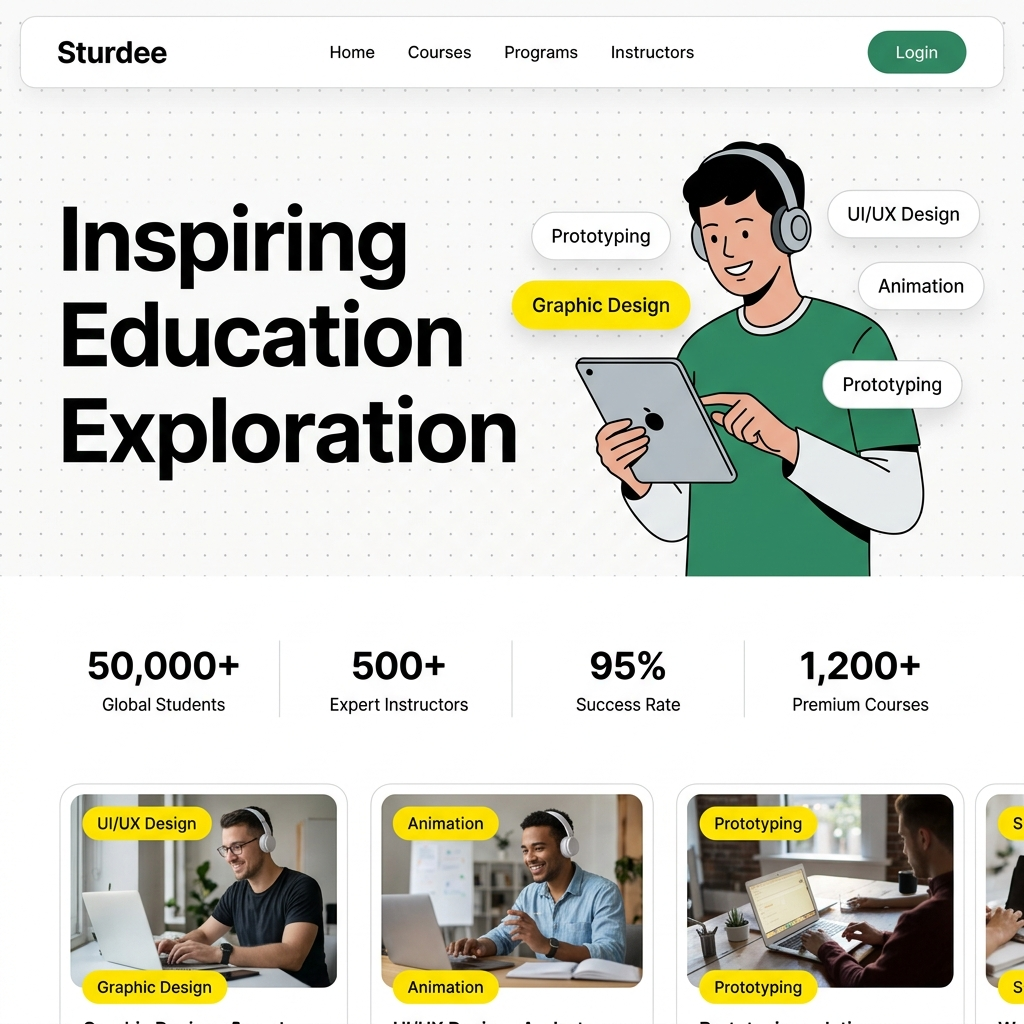
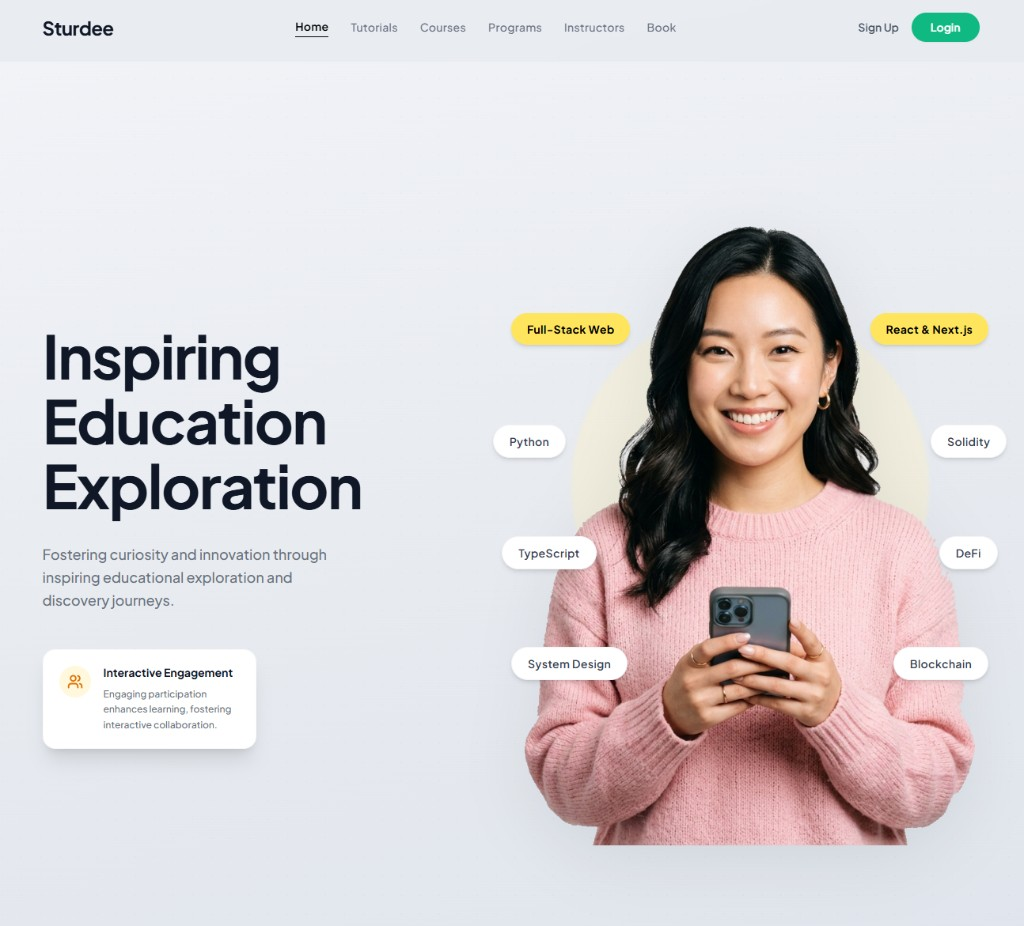
added more projects

diff --git a/lib/projectData.js b/lib/projectData.js
@@ -442,13 +442,13 @@ export const ALL_PROJECTS = [
     id: 6,
     title: 'Sturdee Education Platform',
     description:
-      'Built a premium education platform with structured course catalogs, learning paths, and instructor profiles. Features include program browsing, alumni network showcasing, and a clean editorial design with animated interactions.',
-    tags: ['Next.js', 'React', 'Tailwind CSS', 'Lucide Icons'],
+      'Built a full-stack EdTech platform at sturdee.online with user auth, an admin dashboard, session booking, and an integrated tutorial site — courses, programs, learning paths, and instructor profiles in a premium editorial UI.',
+    tags: ['Next.js', 'React', 'Auth', 'Admin Dashboard', 'Booking'],
     image: '/images/sturdee.png',
     link: 'https://sturdee.online',
     detailPage: '/sturdee',
     tagline:
-      'A premium education platform designed to inspire serious learners and justify high-ticket course pricing.',
+      'A premium education platform with auth, admin controls, booking, and a built-in tutorial experience — live at sturdee.online.',
     heroImage: '/images/sturdee.png',
     images: ['/images/sturdee.png', '/images/sturdee.png'],
     overview: {
@@ -458,74 +458,74 @@ export const ALL_PROJECTS = [
       status: 'Live',
     },
     challenge: {
-      heading: 'Cheap Templates Were Killing the Brand',
+      heading: 'No Unified Platform for Learning, Booking, and Operations',
       summary:
-        "The client was offering premium-priced courses but using a generic template that looked like every other online course site. Prospective students weren't converting because the platform didn't communicate quality, structure, or credibility.",
+        'The client needed more than a marketing site — they needed a live education product where students could sign up, browse tutorials and courses, book sessions with instructors, and enrol in structured programs, while staff managed everything from a single admin dashboard.',
       points: [
-        'Generic template design undermined the premium pricing and brand positioning',
-        'No clear content hierarchy — courses, programs, and instructors were all muddled together',
-        "Instructor profiles and alumni credibility weren't showcased effectively",
-        'Mobile experience was broken on the previous build, costing mobile conversions',
+        'No authentication — students could not create accounts, log in, or track progress',
+        'Tutorials, courses, and programs lived in separate tools with no unified experience',
+        'Session booking was manual — no self-serve scheduling for students or instructors',
+        'No admin dashboard to manage content, users, bookings, and enrolments without code',
       ],
     },
     solution: {
-      heading: 'Editorial-Grade Platform Built from Scratch',
+      heading: 'Full-Stack EdTech Platform With Auth, Admin, Booking & Tutorials',
       summary:
-        'I built a fully custom Next.js platform with an editorial design approach — every section crafted to guide prospective students through a deliberate journey from discovery to enrolment.',
+        'I built sturdee.online end-to-end on Next.js — a public-facing tutorial and course site with Sign Up / Login auth, a Book flow for scheduling sessions, structured learning paths across Web Development, Programming, and Blockchain, and a secure admin dashboard for managing the entire platform.',
       features: [
         {
-          title: 'Animated Hero Experience',
+          title: 'Authentication System',
           description:
-            'Hero section with floating course topic pills (Graphic Design, UI/UX, Animation, Prototyping) that establish breadth and quality at a glance.',
-          icon: 'star',
+            'Full Sign Up and Login flows so students create accounts, access enrolled content, and return to their dashboard — secured with role-based access for students vs. admin users.',
+          icon: 'shield',
         },
         {
-          title: 'Structured Course Catalog',
+          title: 'Admin Dashboard',
           description:
-            'Course cards with instructor attribution, star ratings, duration, student counts, and pricing — designed to drive enrolment clicks.',
-          icon: 'book',
+            'Custom admin panel to manage courses, tutorials, programs, instructors, student accounts, and platform content — no developer needed for day-to-day operations.',
+          icon: 'settings',
         },
         {
-          title: 'Learning Path Architecture',
+          title: 'Session Booking System',
           description:
-            'Multi-month structured programs (Business Mastery, Leadership Excellence, Innovation & Strategy) showing clear progression from foundational to advanced.',
+            'Integrated Book flow lets students schedule sessions with instructors directly from the site — replacing manual email coordination with a self-serve booking experience.',
           icon: 'bolt',
         },
         {
-          title: 'World-Class Faculty Section',
+          title: 'Integrated Tutorial Site',
           description:
-            'Instructor profile cards with university affiliations (Harvard, MIT Sloan, Stanford GSB) that build instant credibility with prospective students.',
-          icon: 'users',
+            'Dedicated Tutorials section alongside Courses and Programs — students browse bite-sized lessons and deep-dive tracks (Full-Stack Web, Python, TypeScript, System Design, Solidity, DeFi, Blockchain) in one cohesive product.',
+          icon: 'book',
         },
         {
-          title: 'Alumni Network Showcase',
+          title: 'Structured Learning Paths',
           description:
-            'Section highlighting graduate placements at Google, McKinsey, Goldman Sachs, and the UN — social proof that commands premium pricing.',
-          icon: 'chart',
-        },
-        {
-          title: 'Fully Responsive',
-          description:
-            'Pixel-perfect on all screen sizes — desktop, tablet, and mobile — with smooth transitions and micro-animations throughout.',
+            'Multi-month curated journeys — Full-Stack Web Development (18 courses), Professional Programming (22 courses), Blockchain & Cryptocurrency (16 courses) — each with clear progression from fundamentals to mastery.',
           icon: 'layout',
+        },
+        {
+          title: 'Premium Editorial Frontend',
+          description:
+            'Animated hero with floating topic pills, featured course cards with ratings and pricing, world-class faculty profiles, alumni network showcase, and fully responsive design across all devices.',
+          icon: 'star',
         },
       ],
     },
     impact: {
-      heading: 'A Platform That Justifies Premium Pricing',
+      heading: 'One Platform for Learning, Booking, and Operations',
       metrics: [
-        { value: '↑', label: 'Conversion rate vs. old template' },
-        { value: '100%', label: 'Mobile-responsive across all pages' },
-        { value: '4wks', label: 'Design to live platform' },
-        { value: '∞', label: 'Courses & programs scalable' },
+        { value: '1', label: 'Unified tutorial + course site' },
+        { value: '3', label: 'Structured learning paths' },
+        { value: '100%', label: 'Admin-managed content' },
+        { value: 'Live', label: 'At sturdee.online' },
       ],
       points: [
-        'Live at sturdee.online with a first impression that matches premium pricing',
-        'Clear course and program hierarchy guides students naturally to enrolment',
-        'Faculty section with top-tier university affiliations drives instant credibility',
-        'Alumni network at world-class companies provides powerful social proof',
-        'Animated hero creates a memorable, high-quality first impression',
-        'Mobile experience is flawless — no conversions lost to broken layouts',
+        'Live at sturdee.online — auth, booking, tutorials, and courses in one product',
+        'Students sign up, log in, and book sessions without leaving the platform',
+        'Admin dashboard gives staff full control over content, users, and bookings',
+        'Tutorial site integrated alongside courses and programs — not a bolt-on',
+        'Featured tracks in Web Dev, Python, and Blockchain with faculty attribution',
+        'Premium editorial UI justifies high-ticket course pricing and drives enrolment',
       ],
     },
   },
@@ -712,6 +712,110 @@ export const ALL_PROJECTS = [
         'Admin email notifications keep the team in the loop on every generation',
         'Explicit node references in expressions prevent data loss across the chain',
         'Architecture supports Slack publishing, scheduling, and multi-platform expansion',
+      ],
+    },
+  },
+
+  {
+    id: 9,
+    title: 'Inema Construction',
+    description:
+      'Built a full-stack corporate site for PT Inema Konstruksi with user auth, an admin dashboard, and a project booking/inquiry system — plus editorial dark-mode design, landmark portfolio, and service capability showcase.',
+    tags: ['Next.js', 'React', 'Auth', 'Admin Dashboard', 'Booking'],
+    image: '/images/inema.png',
+    link: 'https://inema.site',
+    detailPage: '/inema',
+    tagline:
+      'A world-class construction brand site with auth, admin controls, and project booking — live at inema.site.',
+    heroImage: '/images/inema.png',
+    images: ['/images/inema.png', '/images/inema.png'],
+    overview: {
+      type: 'Corporate / Construction',
+      duration: '3 Weeks',
+      role: 'Full-Stack Developer & UI Designer',
+      status: 'Live',
+    },
+    challenge: {
+      heading: 'A Local GC With No Digital Presence to Match Their Ambition',
+      summary:
+        'PT Inema Konstruksi delivers civil, structural, architectural, and MEP works across residential and commercial sectors in Jakarta — but had no website that communicated the scale, safety standards, and delivery rigour of a serious general contractor.',
+      points: [
+        'No online presence to win commercial tenders or international partnerships',
+        'Needed to communicate six core disciplines — GC, design-build, structural, MEP, façade, and pre-construction',
+        'Project inquiries and consultation bookings were handled manually with no digital pipeline',
+        'No admin dashboard to manage inquiries, content, or team access without a developer',
+      ],
+    },
+    solution: {
+      heading: 'Editorial Construction Brand Site Built End-to-End',
+      summary:
+        'I designed and built inema.site end-to-end — a premium dark-mode corporate experience with Sign Up / Login auth, a Get Quote booking flow, a secure admin dashboard for managing inquiries and site content, plus phased hero storytelling, landmark portfolio, and full service capability grid.',
+      features: [
+        {
+          title: 'Authentication & Admin Dashboard',
+          description:
+            'Secure auth for staff and admin users, with a custom dashboard to manage project inquiries, portfolio content, team profiles, and site settings — no code required for daily operations.',
+          icon: 'shield',
+        },
+        {
+          title: 'Project Booking & Inquiry System',
+          description:
+            'Get Quote CTA and contact form capture project scope, location, and timeline — feeding directly into the admin dashboard for one-business-day response workflows.',
+          icon: 'bolt',
+        },
+        {
+          title: 'Phased Hero Narrative',
+          description:
+            'Auto-cycling hero with four construction phases — Foundation, Structure, Envelope, Delivery — each with bespoke headline copy, background imagery, and progress indicator (01/04).',
+          icon: 'star',
+        },
+        {
+          title: 'Landmark Project Portfolio',
+          description:
+            'Filterable showcase of global supertall completions (The Spiral, Mori JP Tower, Greenland Hangzhou) with architect, height, builder, and area metadata — positioning Inema against world-class delivery benchmarks.',
+          icon: 'layout',
+        },
+        {
+          title: 'Six Service Disciplines',
+          description:
+            'Full-spectrum capability grid covering General Contracting, Design-Build, Structural & Civil, MEP & Building Systems, Façade & Envelope, and Pre-Construction — aligned with AIA and DBIA standards.',
+          icon: 'settings',
+        },
+        {
+          title: 'Five-Phase Delivery Method',
+          description:
+            'Interactive process section documenting Discovery → Design Development → Pre-Construction → Construction → Closeout with deliverables listed at each gate.',
+          icon: 'bolt',
+        },
+        {
+          title: 'Safety & Industry Intelligence',
+          description:
+            'Data-driven safety metrics section (BLS/OSHA sourced) and an industry signals feed covering construction fatalities, BIM adoption, and global market size — building institutional credibility.',
+          icon: 'chart',
+        },
+        {
+          title: 'Team Profiles & HQ Contact',
+          description:
+            'Team section profiling operations, design studio, and field division; full Jakarta HQ contact details for PT Inema Konstruksi with email and phone.',
+          icon: 'users',
+        },
+      ],
+    },
+    impact: {
+      heading: 'A Live Brand That Competes on a Global Stage',
+      metrics: [
+        { value: '6', label: 'Service disciplines showcased' },
+        { value: '5', label: 'Documented delivery phases' },
+        { value: 'Live', label: 'At inema.site' },
+        { value: '<24h', label: 'Inquiry response promise' },
+      ],
+      points: [
+        'Live at inema.site — auth, booking, and admin dashboard fully operational',
+        'Get Quote flow replaces manual inquiry handling with a structured digital pipeline',
+        'Admin dashboard gives staff control over inquiries, content, and team profiles',
+        'Phased hero communicates construction expertise before a single scroll',
+        'Global landmark portfolio positions the brand against international GC standards',
+        'Dark editorial aesthetic differentiates Inema from generic contractor templates',
       ],
     },
   },

diff --git a/app/inema/page.js b/app/inema/page.js
@@ -1,0 +1,14 @@
+import ProjectDetailPage from '@/components/ProjectDetailPage';
+import { ALL_PROJECTS } from '@/lib/projectData';
+
+export const metadata = {
+  title: 'Inema Construction — Alex Thompson',
+  description:
+    'Full-stack corporate site for PT Inema Konstruksi with auth, admin dashboard, project booking, phased hero storytelling, and landmark portfolio. Live at inema.site.',
+};
+
+const project = ALL_PROJECTS.find(p => p.id === 9);
+
+export default function InemaPage() {
+  return <ProjectDetailPage project={project} allProjects={ALL_PROJECTS} />;
+}

diff --git a/components/Projects.js b/components/Projects.js
@@ -32,6 +32,16 @@ const PORTFOLIO_VIDEO_URL = 'https://youtu.be/mpHknM8chmA';
 
 const webProjects = [
   {
+    id: 9,
+    title: 'Inema Construction',
+    description:
+      'Full-stack corporate site for PT Inema Konstruksi with auth, admin dashboard, and project booking — editorial dark-mode design, landmark portfolio, six service disciplines, and safety metrics. Live at inema.site.',
+    tags: ['Next.js', 'React', 'Auth', 'Admin Dashboard', 'Booking'],
+    image: '/images/inema.png',
+    link: 'https://inema.site',
+    detailPage: '/inema',
+  },
+  {
     id: 1,
     title: 'Oreo Luxury Showcase',
     description:
@@ -65,8 +75,8 @@ const webProjects = [
     id: 6,
     title: 'Sturdee Education Platform',
     description:
-      'Premium EdTech platform with structured course catalogs, learning paths, faculty profiles, and alumni social proof.',
-    tags: ['Next.js', 'React', 'Tailwind CSS', 'Lucide Icons'],
+      'Full-stack EdTech platform with auth, admin dashboard, session booking, and an integrated tutorial site — courses, programs, learning paths, and instructor profiles. Live at sturdee.online.',
+    tags: ['Next.js', 'React', 'Auth', 'Admin Dashboard', 'Booking'],
     image: '/images/sturdee.png',
     link: 'https://sturdee.online',
     detailPage: '/sturdee',

diff --git a/app/sturdee/page.js b/app/sturdee/page.js
@@ -3,7 +3,8 @@ import { ALL_PROJECTS } from '@/lib/projectData';
 
 export const metadata = {
   title: 'Sturdee Education Platform — Alex Thompson',
-  description: 'Built a premium custom education platform with structured courses, learning paths, instructor profiles, and editorial-grade design that commands high-ticket pricing.',
+  description:
+    'Full-stack EdTech platform with auth, admin dashboard, session booking, and integrated tutorials — courses, programs, and learning paths live at sturdee.online.',
 };
 
 const project = ALL_PROJECTS.find(p => p.id === 6);

diff --git a/components/HeroSection.js b/components/HeroSection.js
@@ -2,6 +2,7 @@ import React from 'react';
 
 const HeroSection = () => {
   const designs = [
+    { title: 'Inema Construction', tag: 'Next.js', img: '/images/inema.png' },
     { title: 'n8n Leads Classifier', tag: 'n8n', img: '/images/n8n lead classifier.png' },
     { title: 'LinkedIn Post Generator', tag: 'n8n + AI', img: '/images/linkedin post generator.png' },
     { title: 'Xtraspare E-commerce', tag: 'Next.js', img: '/images/bikewall.jpg' },
@@ -19,7 +20,7 @@ const HeroSection = () => {
       <style>{`
         @keyframes infinite-scroll {
           0% { transform: translateX(0); }
-          100% { transform: translateX(calc(-210px * 8 - 1.5rem * 8)); }
+          100% { transform: translateX(calc(-210px * 9 - 1.5rem * 9)); }
         }
         .scroll-container {
           overflow: hidden;